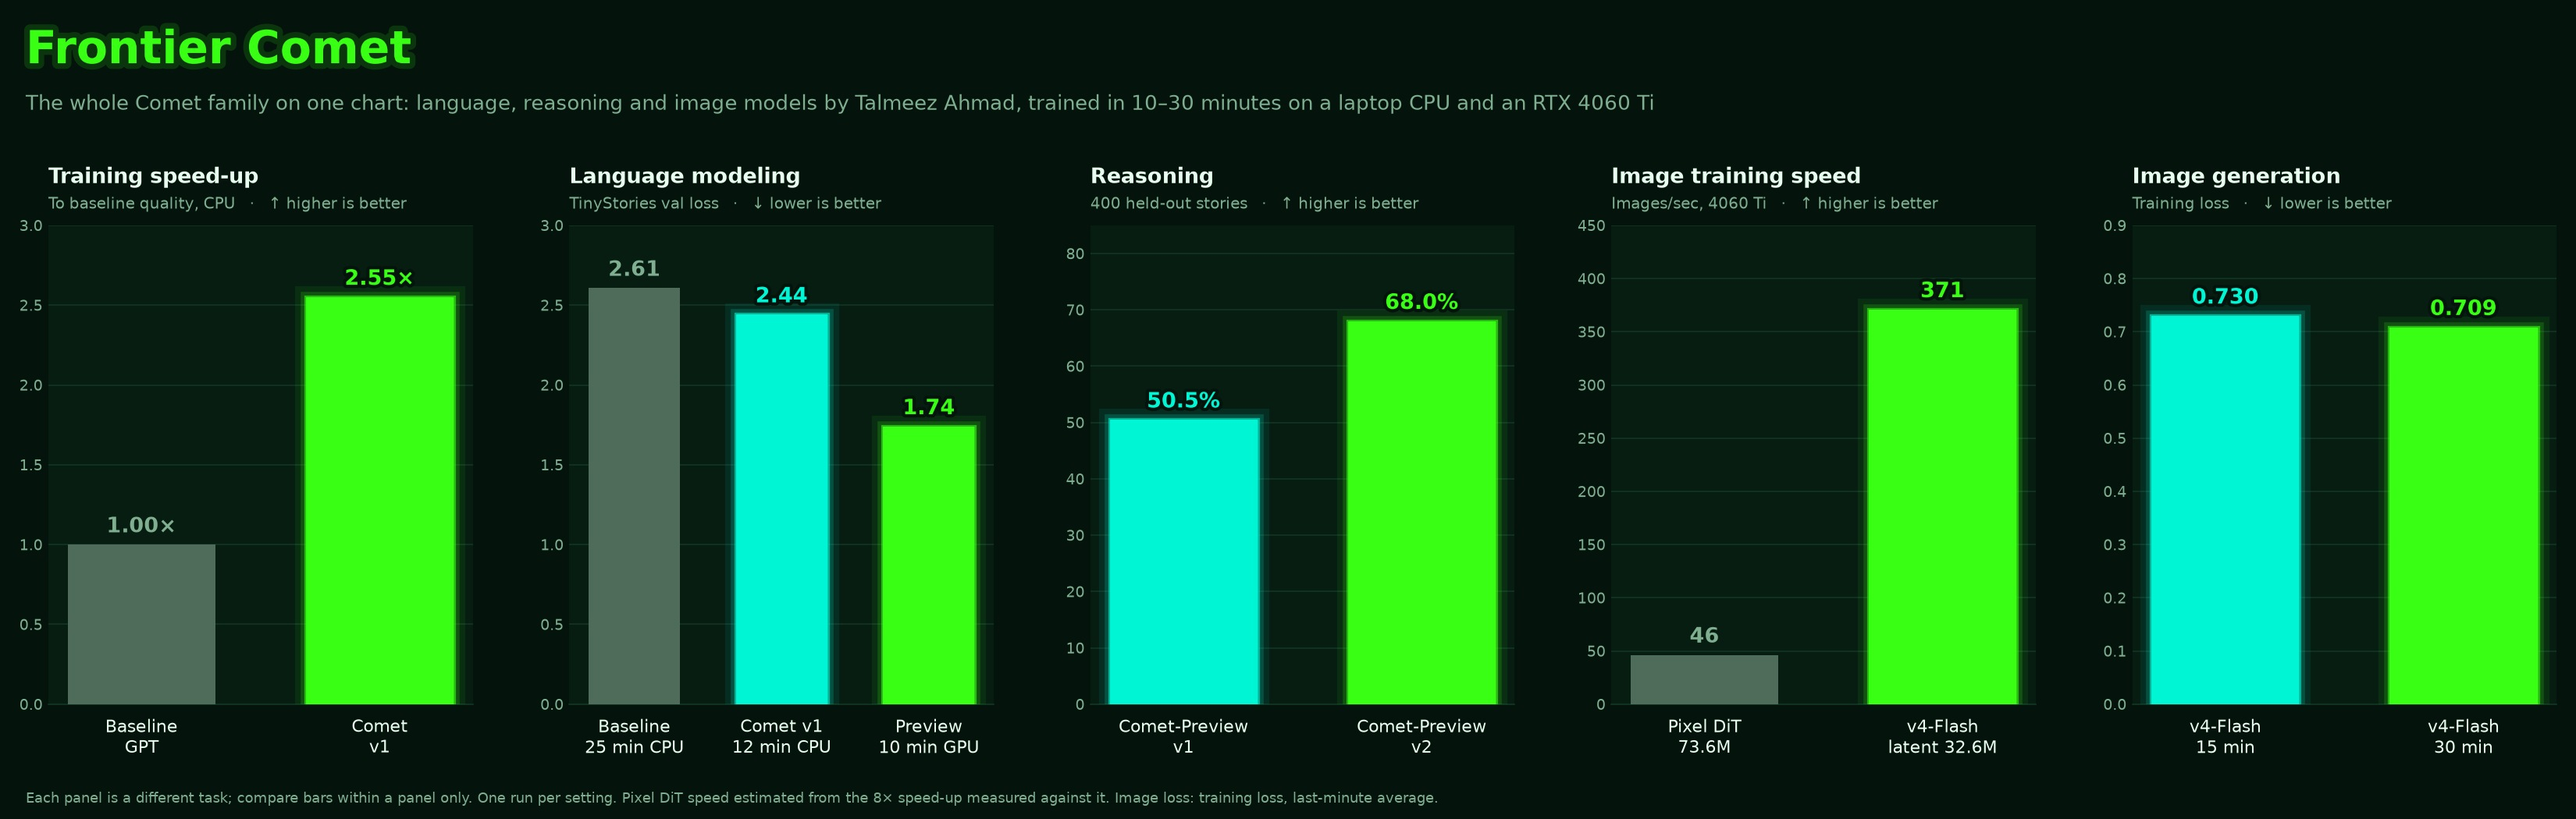
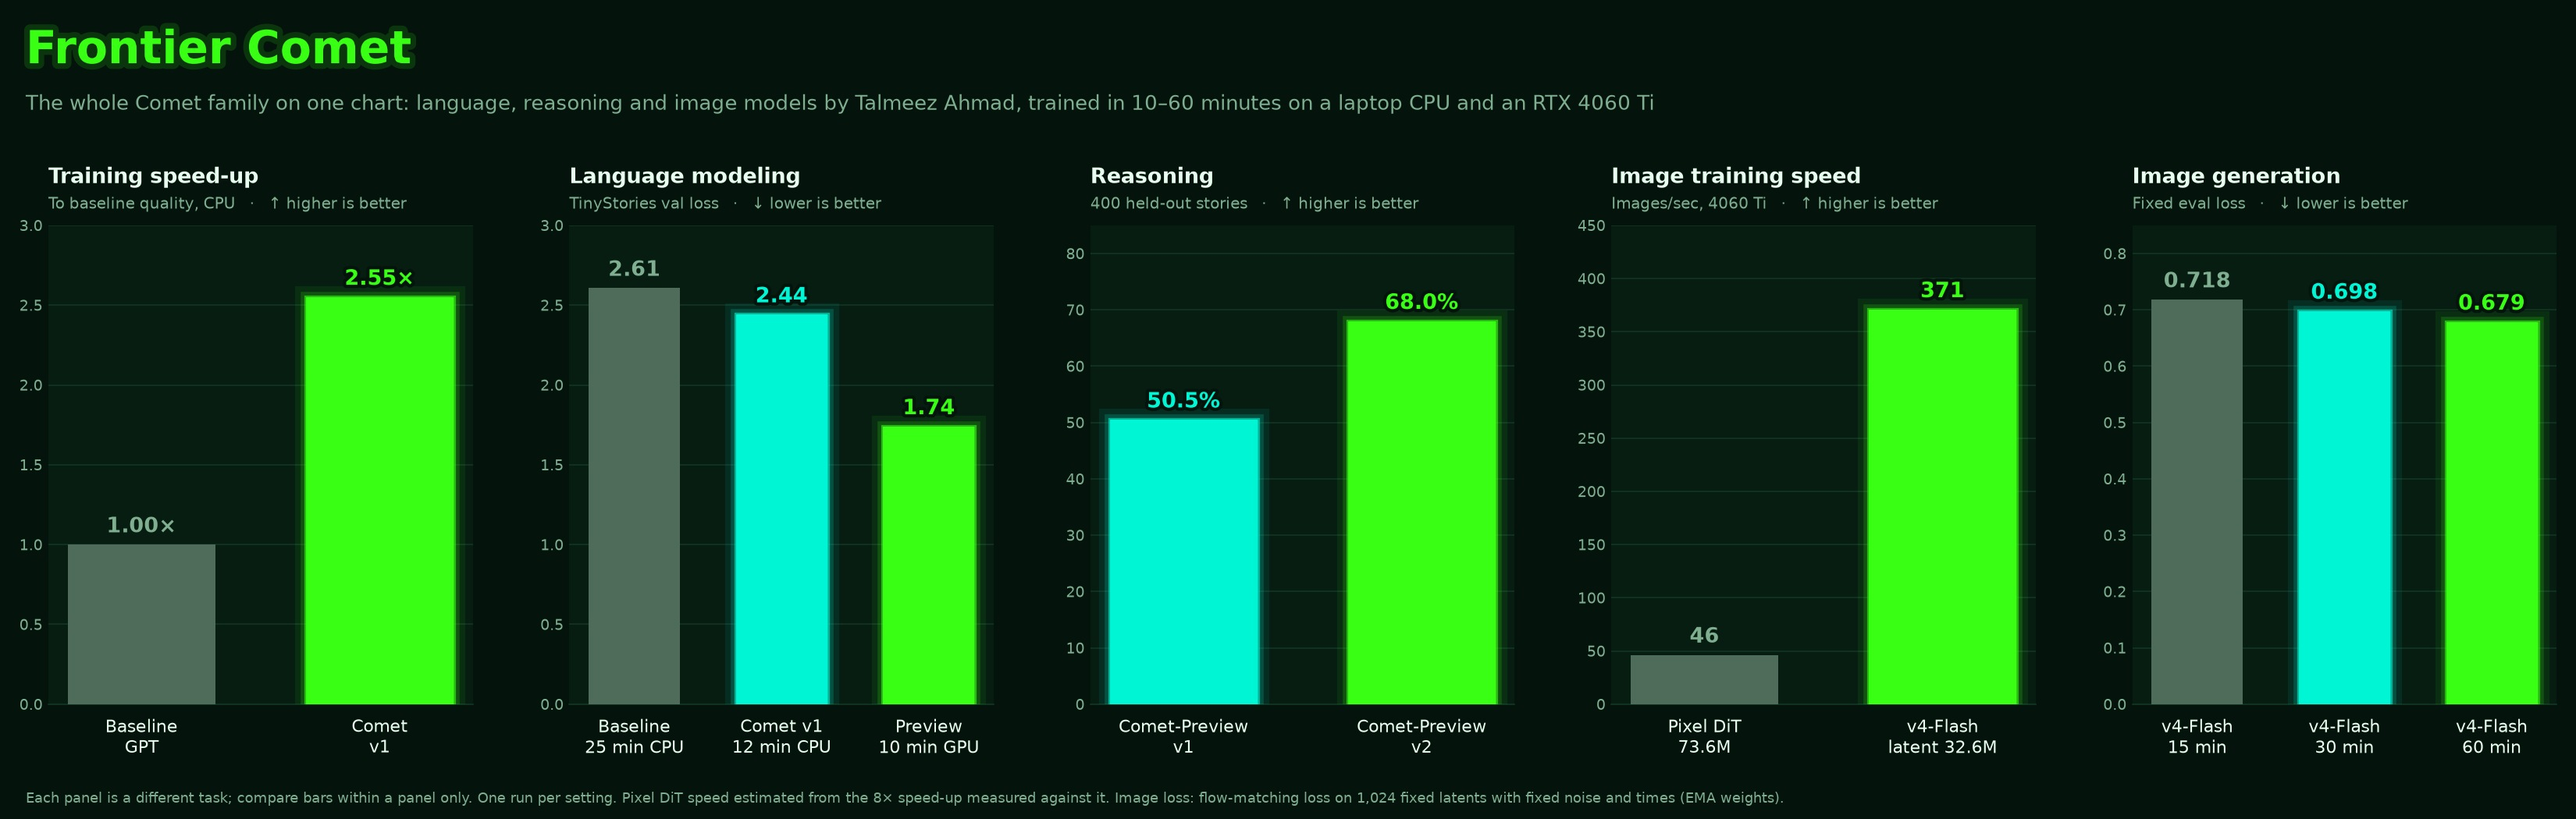
Comet-Image-v4-Flash-Preview-2026-11-09-1641: 30 more min with t_shift 0.5, eval loss 0.698 -> 0.679, sharper at 30 steps; Frontier Comet uses fixed eval loss

diff --git a/benchmarks/frontier_comet.py b/benchmarks/frontier_comet.py
@@ -31,9 +31,10 @@ PANELS = [
     dict(title="Image training speed", subtitle="Images/sec, 4060 Ti", better="higher",
          fmt=lambda v: f"{v:.0f}", ymax=450,
          rows=[("Pixel DiT\n73.6M", 371 / 8, GRAY), ("v4-Flash\nlatent 32.6M", 371, COMET)]),
-    dict(title="Image generation", subtitle="Training loss", better="lower",
-         fmt=lambda v: f"{v:.3f}", ymax=0.9,
-         rows=[("v4-Flash\n15 min", 0.73, COMET_LIGHT), ("v4-Flash\n30 min", 0.7085, COMET)]),
+    dict(title="Image generation", subtitle="Fixed eval loss", better="lower",
+         fmt=lambda v: f"{v:.3f}", ymax=0.85,
+         rows=[("v4-Flash\n15 min", 0.7182, GRAY), ("v4-Flash\n30 min", 0.6982, COMET_LIGHT),
+               ("v4-Flash\n60 min", 0.6787, COMET)]),
 ]
 
 
@@ -49,10 +50,10 @@ def main(cont_loss=None):
     fig.text(0.010, 0.965, "Frontier Comet", fontsize=28, fontweight="bold", color=COMET, va="top",
              path_effects=[pe.withStroke(linewidth=7, foreground=COMET, alpha=0.15)])
     fig.text(0.010, 0.885, "The whole Comet family on one chart: language, reasoning and image models by Talmeez Ahmad, "
-             "trained in 10–30 minutes on a laptop CPU and an RTX 4060 Ti", fontsize=12.5, color=MUTED, va="top")
+             "trained in 10–60 minutes on a laptop CPU and an RTX 4060 Ti", fontsize=12.5, color=MUTED, va="top")
     fig.text(0.010, 0.02,
              "Each panel is a different task; compare bars within a panel only. One run per setting. Pixel DiT speed "
-             "estimated from the 8× speed-up measured against it. Image loss: training loss, last-minute average.",
+             "estimated from the 8× speed-up measured against it. Image loss: flow-matching loss on 1,024 fixed latents with fixed noise and times (EMA weights).",
              fontsize=8.5, color=MUTED)
     fig.tight_layout(rect=(0, 0.05, 1, 0.82), w_pad=3)
     out = os.path.join(HERE, "frontier_comet.jpg")

diff --git a/Comet-Image/README.md b/Comet-Image/README.md
@@ -34,7 +34,7 @@
 
 Progress: [after 5 minutes](results/comet_image_v4_flash_5min.png) it already made smooth painterly images, where the pixel-space attempt was still colored static at 10 minutes.
 
-**Download the weights:** latest: [Comet-Image-v4-Flash-Preview-2026-11-09-1604](https://github.com/TerminalDev-1/Comet/releases/tag/comet-image-v4-flash-preview-2026-11-09-1604) (30 min of training); first pass: [Comet-Image-v4-Flash-2026-11-08](https://github.com/TerminalDev-1/Comet/releases/tag/comet-image-v4-flash-2026-11-08) (15 min). Each is 62 MB fp16 `.safetensors` + config. Generate images:
+**Download the weights:** latest: [Comet-Image-v4-Flash-Preview-2026-11-09-1641](https://github.com/TerminalDev-1/Comet/releases/tag/comet-image-v4-flash-preview-2026-11-09-1641) (60 min of training); [2026-11-09-1604](https://github.com/TerminalDev-1/Comet/releases/tag/comet-image-v4-flash-preview-2026-11-09-1604) (30 min); first pass: [Comet-Image-v4-Flash-2026-11-08](https://github.com/TerminalDev-1/Comet/releases/tag/comet-image-v4-flash-2026-11-08) (15 min). Each is 62 MB fp16 `.safetensors` + config. Generate images:
 
 ```bash
 python generate_flash.py Comet-Image-v4-Flash-2026-11-08.safetensors --out images --n 4 --seed 7          # 8 steps (Flash)
@@ -52,6 +52,26 @@ Loss **0.730 → 0.709** (last-minute averages). Gains are steady but small: sam
 ![v4-Flash-Preview after 30 min, 8 steps](results/comet_image_v4_flash_preview_30min_8steps.png)
 
 *Same 16 seeds as above, after 30 minutes of training in total, 8 steps. [30-step version](results/comet_image_v4_flash_preview_30min_30steps.png). Released as [Comet-Image-v4-Flash-Preview-2026-11-09-1604](https://github.com/TerminalDev-1/Comet/releases/tag/comet-image-v4-flash-preview-2026-11-09-1604).*
+
+### Sharper: 30 more minutes → Comet-Image-v4-Flash-Preview-2026-11-09-1641
+
+Goal: less blurry, more visible shapes. Continued from 2026-11-09-1604 for **30 minutes** (60 min total, 10,457 more steps), lr 2e-4 with cooldown, plus one recipe change: **`--t_shift 0.5`**, which spends more training on nearly-clean images, where fine detail is learned. Same architecture, same data.
+
+Because `t_shift` changes the training loss itself, runs are now compared on a **fixed eval loss** (1,024 latents, fixed noise and times, EMA weights):
+
+| Checkpoint | Training | Eval loss |
+|---|---|---|
+| Comet-Image-v4-Flash-2026-11-08 | 15 min | 0.7182 |
+| Comet-Image-v4-Flash-Preview-2026-11-09-1604 | 30 min | 0.6982 |
+| **Comet-Image-v4-Flash-Preview-2026-11-09-1641** | **60 min** | **0.6787** |
+
+![v4-Flash-Preview after 60 min, 30 steps](results/comet_image_v4_flash_preview_60min_30steps.png)
+
+*Same 16 seeds, 60 minutes of training, **30 steps**.*
+
+- ✅ **At 30 steps it's clearly sharper:** harder edges, more contrast, solid shapes (white figures against black, a doorway, rocky textures, a yellow flower against leaves) instead of soft smears.
+- ⚠ **At 8 steps (Flash) it's still soft** ([8-step grid](results/comet_image_v4_flash_preview_60min_8steps.png)): the detail lives in the last sampling steps, which 8 big steps skip.
+- ⚠ **Still not recognizable objects.** 32.6M parameters, 9.5k images and one hour of training make convincing textures and compositions, not clear things.
 
 ## Legacy: Comet-Image-Preview v1, v2 and v3 (discontinued)
 

diff --git a/README.md b/README.md
@@ -16,7 +16,7 @@
 |---|---|---|---|
 | **Comet v1** (sunset) | [Comet-LM/](Comet-LM/) | Efficient Transformer trained on a laptop CPU | Baseline GPT quality **2.55× faster** (9.8 vs 25 min) |
 | **Comet-Preview** | [Comet-LM/](Comet-LM/) | 15.7M language model that **thinks in English** in `<think>` tags | **68%** on held-out story reasoning (v2), 13 min of GPU training |
-| **Comet-Image-v4-Flash-Preview-2026-11-08** | [Comet-Image/](Comet-Image/) | 32.6M **latent** Diffusion Transformer on public general + NASA space images | **256×256** painterly images in **8 steps** (~0.2 s each); 30 min of training so far (loss 0.73 → 0.709 in the second 15). [Weights (30-min, 2026-11-09-1604)](https://github.com/TerminalDev-1/Comet/releases/tag/comet-image-v4-flash-preview-2026-11-09-1604) |
+| **Comet-Image-v4-Flash-Preview-2026-11-08** | [Comet-Image/](Comet-Image/) | 32.6M **latent** Diffusion Transformer on public general + NASA space images | **256×256** painterly images in **8 steps** (~0.2 s each); 60 min of training so far (eval loss 0.718 → 0.679); sharper at 30 steps. [Latest weights: 2026-11-09-1641](https://github.com/TerminalDev-1/Comet/releases/tag/comet-image-v4-flash-preview-2026-11-09-1641) |
 | Comet-Image-Preview v1, v2, v3 | [Comet-Image/](Comet-Image/) | 🗄 Legacy, discontinued (screenshot-only) | |
 
 Write-ups: [Comet-LM/README.md](Comet-LM/README.md) (v1), [Comet-LM/results/comet_preview.md](Comet-LM/results/comet_preview.md), [Comet-Image/README.md](Comet-Image/README.md).
